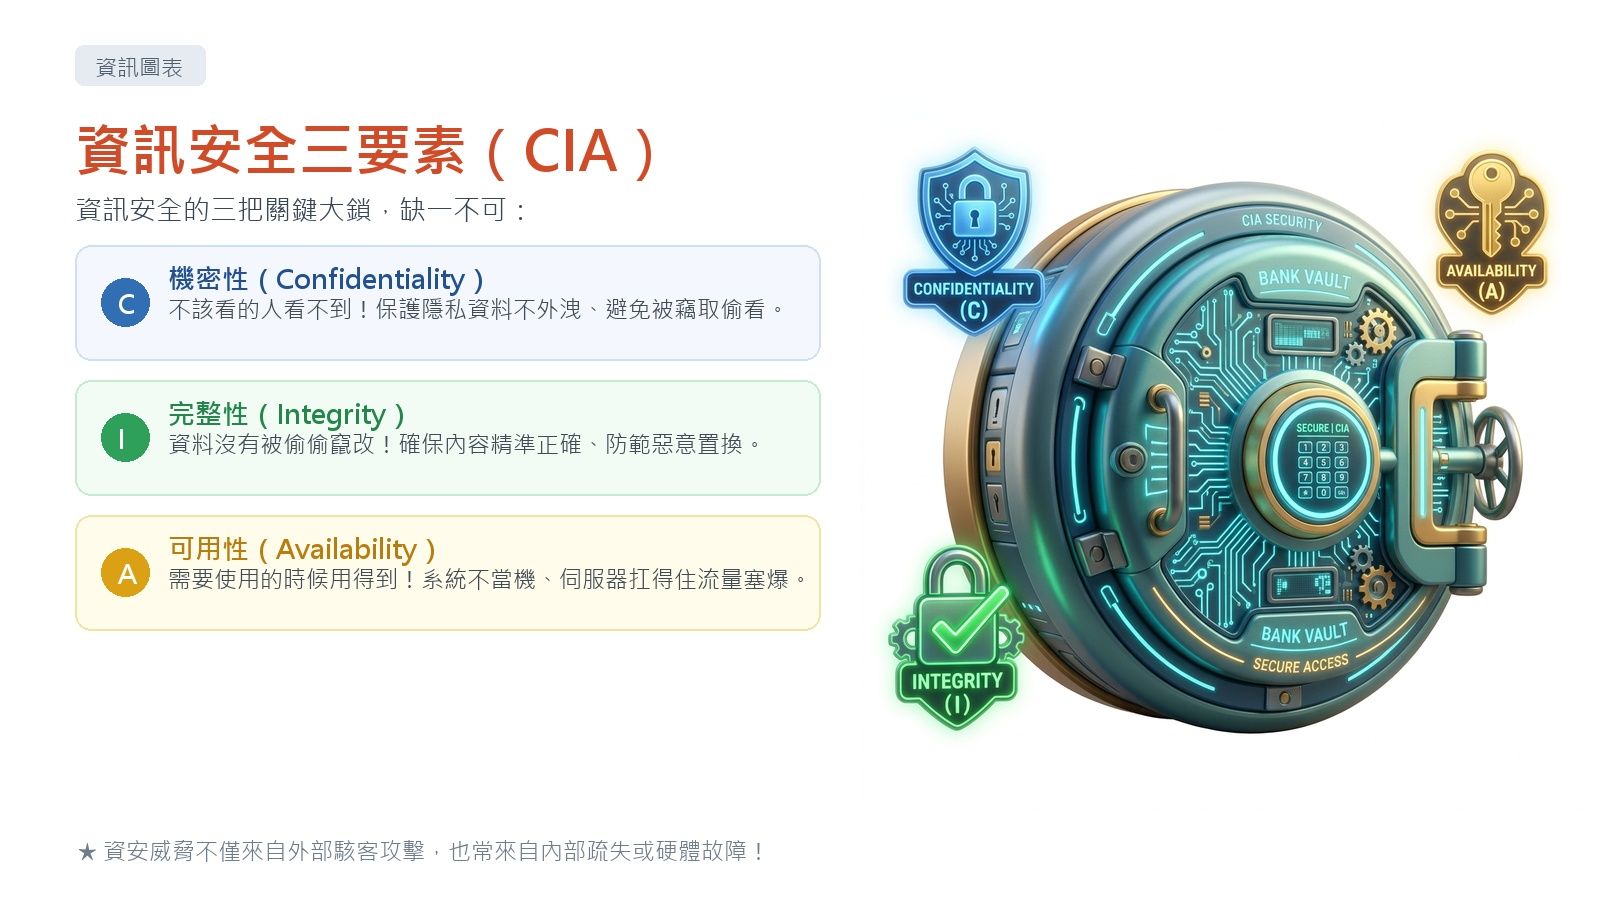
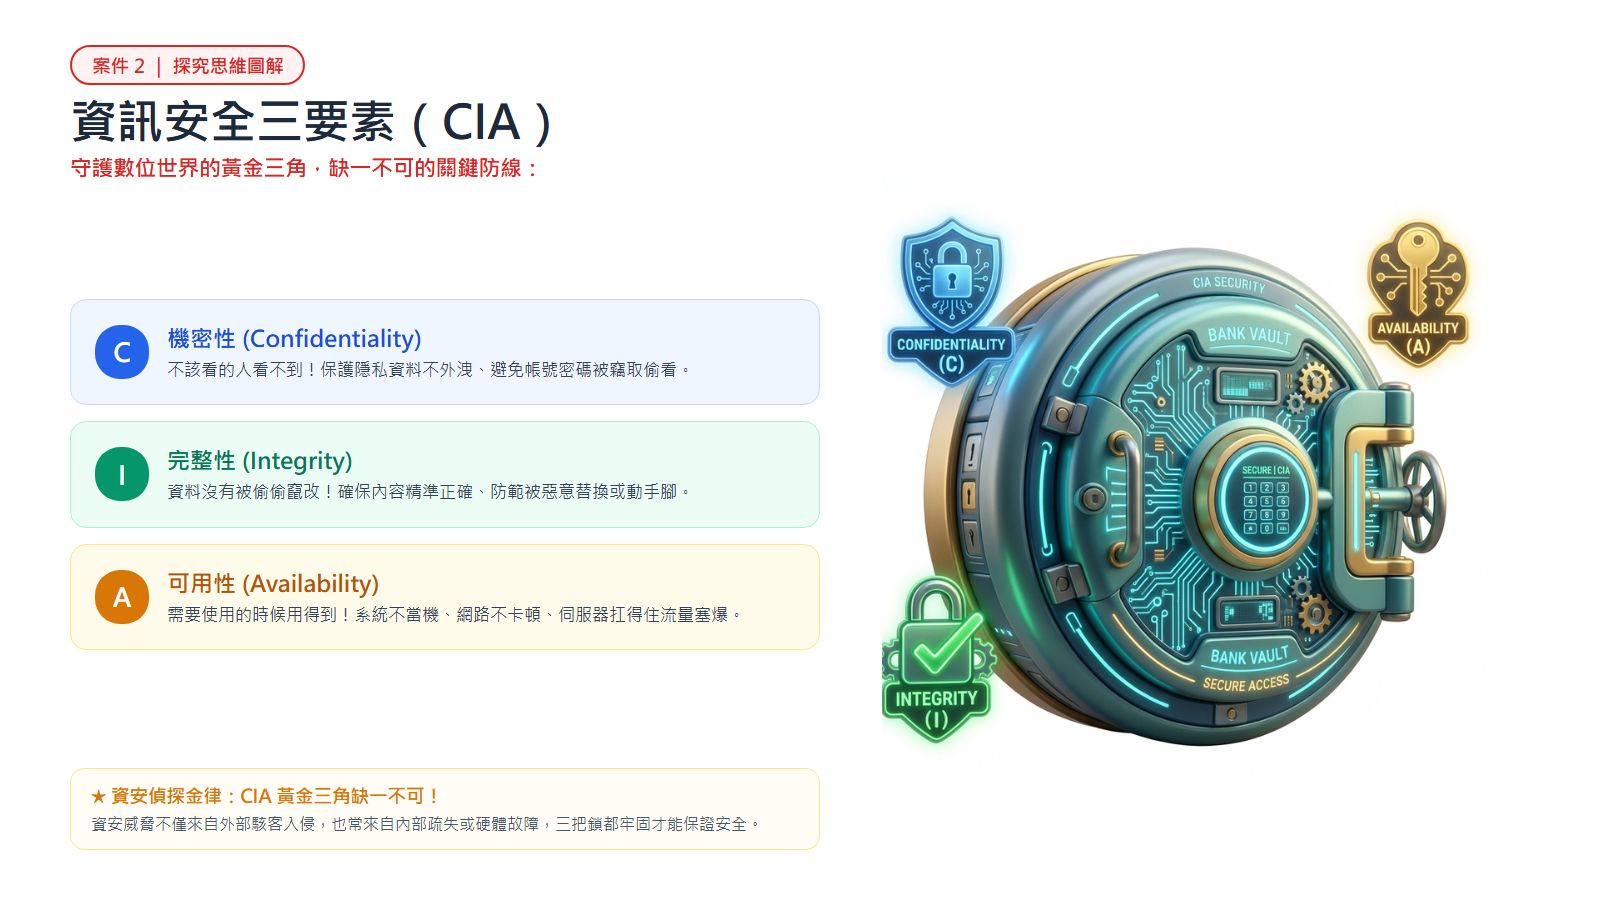
fix(case2): 替換案件二 CIA 金庫對齊圖檔，統一紅框標籤並消除底部留白

diff --git a/units/g5-cyber-safety/index.html b/units/g5-cyber-safety/index.html
@@ -426,7 +426,7 @@
         {
           title: '案件 2　三把安全鎖',
           text: '資訊安全要守住三把鎖：<b>機密性</b>（不該看的人看不到）、<b>完整性</b>（資料沒被亂改）、<b>可用性</b>（需要時用得到）。威脅可能來自外部，也可能來自內部。',
-          slides: ['assets/final_case2.jpg?v=20261023_perfect2'],
+          slides: ['assets/final_case2.jpg?v=20261024_case2_cia_aligned'],
           interactive: GAMES.cia,
           quizzes: [
             {
@@ -442,7 +442,7 @@
               feedback: '內部人員也必須遵循「最小權限原則」，僅能調閱工作職責所需的必要資料，隨意越權存取是嚴重的內部機密性威脅。'
             }
           ],
-          infographic: 'assets/i2_cia_v2.jpg?v=20261023f',
+          infographic: 'assets/i2_cia_v2.jpg?v=20261024_case2_cia_aligned',
           teacherTips: ['原簡報「科技大廠揪內賊」與「競業禁止條款」兩頁對五年級偏難，沒有放進學生頁；想延伸時可口頭補充：公司的機密被員工帶走，也是內部威脅。', '原簡報的 Avaliability 拼字已在資訊圖表中更正為 Availability。']
         },
         {

diff --git a/handoff.md b/handoff.md
@@ -50,14 +50,21 @@
     - 經 Kristy 檢視預覽確認「好」後，正式覆蓋寫入正式目錄並更新 `index.html` 快取碼（`?v=20261024_case1_dikw_perfect`）。
 - **教學駕駛艙增強「影片網址智能解析支援」**：
   - 更新 `assets/cockpit.js`，增加 `parseYtId()` 正則解析：原生支援 YouTube 完整網址（`https://www.youtube.com/watch?v=...`）、分享短網址（`https://youtu.be/...`）與純 11 碼 ID，並可支援單部或多部影片清單，自動以安全模式（`youtube-nocookie.com`）內嵌播放。
+- **依據 Kristy 最新指導完成案件 2 全面升級與完美對齊（2026-10-24 12:30）**：
+  - **案件 2 探究簡報（`final_case2.jpg`）與資訊圖表（`i2_cia_v2.jpg`）**：
+    - 依指示採選項 B（維持純科技金庫與三把鎖，優化排版對齊與標籤格式，並消除底部留白）：
+    - 簡報標籤升級為標準紅框紅字「案件 2 ｜ 探究簡報」，資訊圖表升級為標準紅框紅字「案件 2 ｜ 探究思維圖解」。
+    - 3D 科技金庫大門與三把鎖（Confidentiality / Integrity / Availability）向上精確切齊左側第一張卡片頂部，旋轉把手完整入鏡。
+    - 資訊圖表版卡片適當加厚展開，底部加入「★ 資安偵探金律」重點收斂框；簡報版「想一想」提示框與金庫底邊完美水平收斂，底邊維持標準 54px 舒適留白。
+    - 經 Kristy 檢視預覽確認許可（"OK"）後，正式覆蓋寫入正式目錄並更新 `index.html` 快取碼（`?v=20261024_case2_cia_aligned`）。
 - 已全自動完成 `git commit`、`git push origin main` 與 Google 雲端硬碟 `robocopy` 雙重備份！
 
 ## 🚦 目前狀態
-- 案件 1 與案件 6 的所有投影片與資訊圖表皆已完美定稿、對齊無遮擋並發布至 GitHub Pages！
-- 全站已就緒支援在單元結尾直接填入 YouTube 影片網址。
+- 案件 1、案件 2、案件 6 的所有投影片與資訊圖表皆已完美定稿、對齊無遮擋並發布至 GitHub Pages！
+- 教學影片播放清單（含《2020》網路危機等 4 部短片）已上線。
 
 ## ➡ 下一步
-1. 依照 Kristy 提供的影片網址，為《資安偵探學院》填入影片（填入 `units/g5-cyber-safety/index.html` 的 `video.youtube`）。
+1. 依 Kristy 指示推進下一個案件的圖片檢視與修正（如案件 3、案件 8 小美自拍、案件 9 釣魚等）。
 2. 持續依 Kristy 指導推進其他單元或教材細節。
 
 ## ⚠ 注意事項
@@ -65,6 +72,6 @@
 - 所有插圖角色自然多元（小男孩、小女孩、阿嬤、同儕），全數統一為 16:9 純白底繪本規格。
 
 ## 🕐 最後更新
-- 時間：2026-10-24 10:38
+- 時間：2026-10-24 12:32
 - 更新者：Antigravity @ LAPTOP-IUMJF2MM
 
